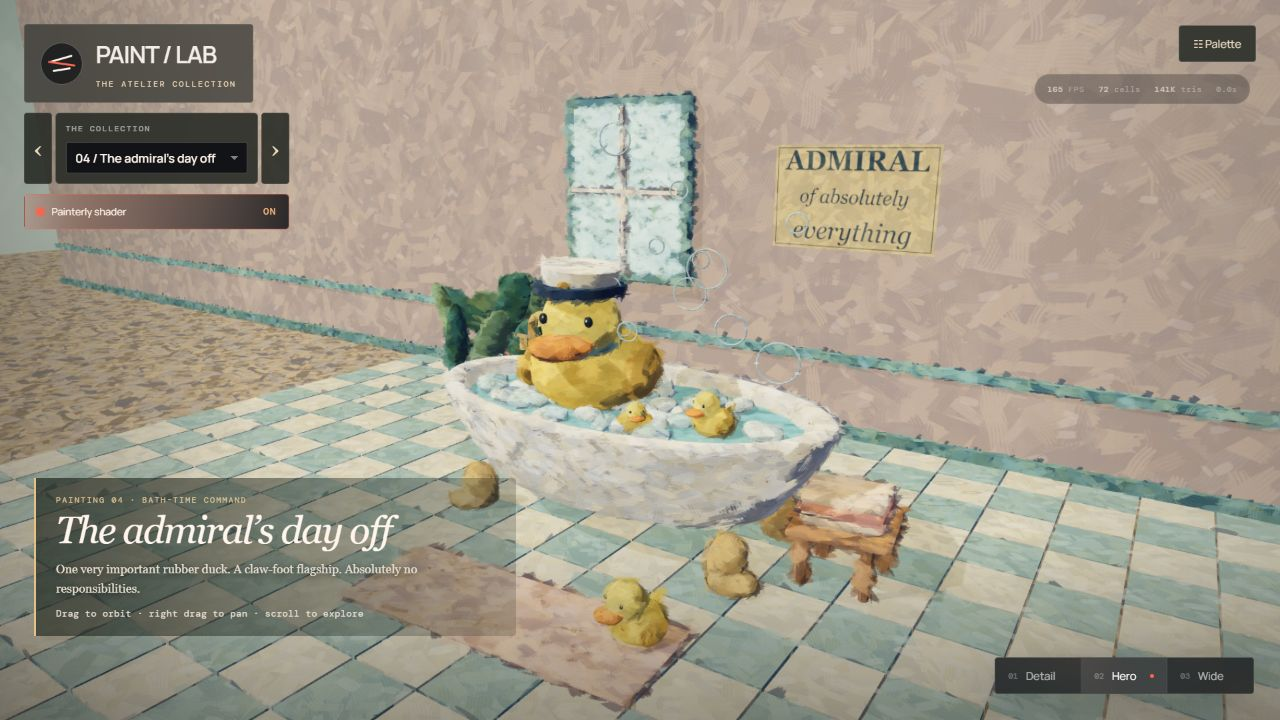
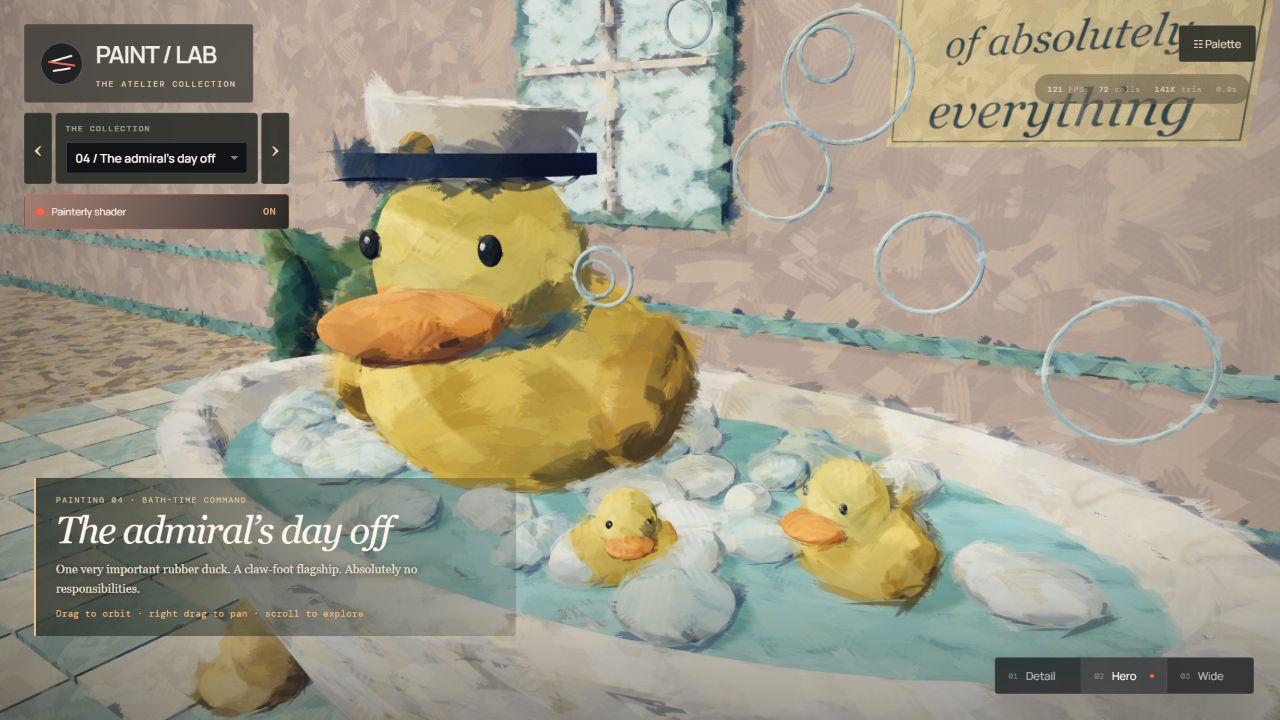
Update close-up scene screenshots and descriptions

diff --git a/README.md b/README.md
@@ -23,13 +23,13 @@ textures; the scenes need no downloaded models or image assets.
 ![The long way home](docs/screenshots/the-long-way-home.jpg)
 ![A little sunshine](docs/screenshots/a-little-sunshine.jpg)
 
-**04 / The admiral’s day off — Hero view**
+**04 / The admiral’s day off — Close-up**
 
-![Hero view of The admiral’s day off, with a rubber-duck captain and its bathtub fleet](docs/screenshots/the-admirals-day-off.jpg)
+![Close-up of the rubber-duck captain’s face and smaller ducks, showing painted color and bristle detail](docs/screenshots/the-admirals-day-off.jpg)
 
-**05 / The crumb committee — Hero view**
+**05 / The crumb committee — Close-up**
 
-![Hero view of The crumb committee, with three pigeons meeting over a croissant on a rooftop](docs/screenshots/the-crumb-committee.jpg)
+![Close-up of the three pigeon faces around their rooftop table, showing painted feathers and brushwork](docs/screenshots/the-crumb-committee.jpg)
 
 ## Run
 
